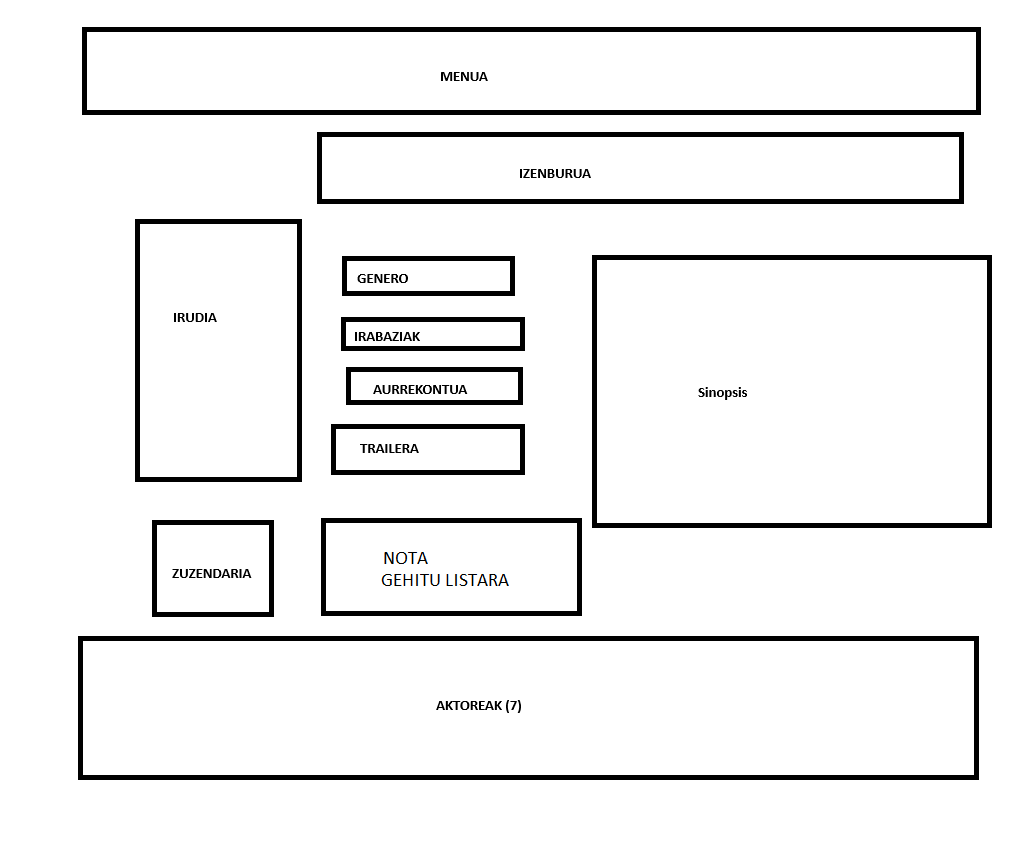
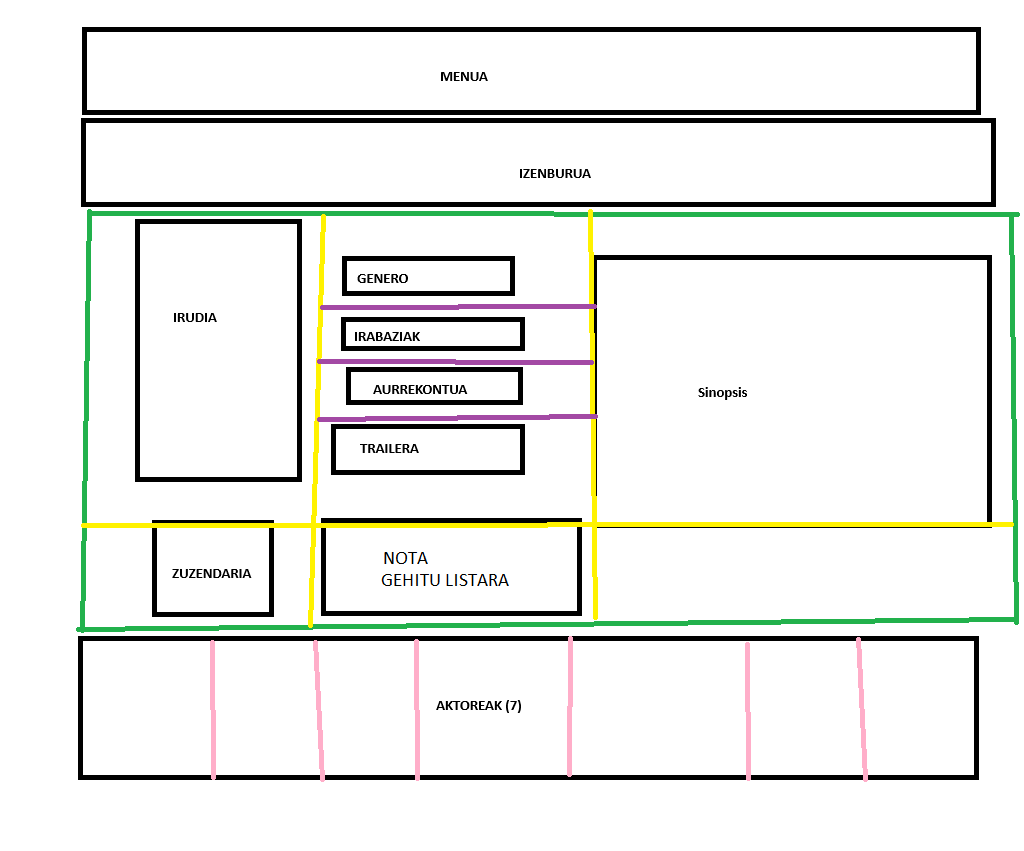
Pelikula atala egiten

diff --git a/Erronka_Zinema/Aplikazioa/_zinema_/src/GUI/Informazioa/PelikulaInformazioa.java b/Erronka_Zinema/Aplikazioa/_zinema_/src/GUI/Informazioa/PelikulaInformazioa.java
@@ -1,0 +1,127 @@
+package GUI.Informazioa;
+
+import DatuBase.Konexioa;
+import Objetuak.DB.Pelikulak;
+
+import javax.swing.*;
+import java.awt.*;
+import java.awt.event.ActionEvent;
+import java.awt.event.ActionListener;
+import java.io.IOException;
+import java.net.URI;
+import java.net.URISyntaxException;
+import java.sql.ResultSet;
+import java.sql.SQLException;
+
+public class PelikulaInformazioa {
+
+
+
+    public static JPanel peliInfo(Pelikulak pelikula) throws SQLException {
+
+        JPanel pelikularenInformazia = new JPanel();
+
+        String izenburua = pelikula.getTituloa();
+        JLabel izenBuru = new JLabel(izenburua);
+
+        pelikularenInformazia.add(izenBuru);
+
+
+        JPanel datuak = pelikulaDatu(pelikula);
+
+        pelikularenInformazia.add(datuak);
+
+
+
+        return pelikularenInformazia;
+
+    }
+
+    static JPanel pelikulaDatu(Pelikulak pelikulak) throws SQLException {
+
+        JPanel datuak = new JPanel();
+
+        datuak.setLayout(new GridLayout(3, 2)); //↓→
+
+        datuak.add(irudiak(pelikulak.getIrudiaLokalki(), 130, 200));
+
+        JPanel informazioa = informazioa(pelikulak);
+
+        datuak.add(informazioa);
+
+
+        String sinopsis = pelikulak.getSinopsis();
+        JLabel sino = new JLabel(sinopsis);
+        datuak.add(sino);
+
+
+        return  datuak;
+
+
+    }
+
+    static JPanel informazioa (Pelikulak pelikulak) throws SQLException {
+        JPanel informazioa = new JPanel();
+
+        informazioa.setLayout(new GridLayout(5,1));
+
+
+        String generoa = pelikulak.getGeneroa();
+        generoa = generoa.replace(";", " - ");
+        JLabel izenBuru = new JLabel(generoa);
+        informazioa.add(izenBuru);
+
+
+        Konexioa conn = new Konexioa();
+        ResultSet emaitza = conn.estrenaldia(pelikulak.getIdEstrenaldia());
+        emaitza.next();
+
+        String data = String.valueOf(emaitza.getString("ESTREINALDI_DATA"));
+        //System.out.println(data);
+        conn.konexioaItxi();
+
+
+
+        JLabel dat = new JLabel(data);
+        informazioa.add(dat);
+
+
+        JLabel irabaziak = new JLabel(String.valueOf(pelikulak.getIrabaziak()));
+        informazioa.add(irabaziak);
+
+        JLabel aurrekontua = new JLabel(String.valueOf(pelikulak.getAurrekontua()));
+        informazioa.add(aurrekontua);
+
+
+        JButton trailera = new JButton("Trailera");
+        trailera.addActionListener(new ActionListener() {
+            @Override
+            public void actionPerformed(ActionEvent e) {
+                try {
+                    URI uri = new URI(pelikulak.getTrailera());
+                    Desktop.getDesktop().browse(uri);
+                } catch (URISyntaxException | IOException ex) {
+                    ex.printStackTrace();
+                }
+            }
+        });
+
+        informazioa.add(trailera);
+
+        return informazioa;
+
+    }
+
+
+    static JLabel irudiak(String url, int x, int y){
+        ImageIcon originalIcon = new ImageIcon(url);
+
+        Image img = originalIcon.getImage();
+        Image img1 = img.getScaledInstance(x, y, Image.SCALE_SMOOTH);
+        ImageIcon thedark = new ImageIcon(img1);
+
+        JLabel label = new JLabel();
+        label.setIcon(thedark);
+        return label;
+    }
+}

diff --git a/Erronka_Zinema/Aplikazioa/_zinema_/src/GUI/Index.java b/Erronka_Zinema/Aplikazioa/_zinema_/src/GUI/Index.java
@@ -1,5 +1,6 @@
 package GUI;
 import DatuBase.Konexioa;
+import GUI.Informazioa.PelikulaInformazioa;
 import GUI.LogIn.Konfigurazioa;
 import GUI.LogIn.KontuaSortu;
 import GUI.LogIn.SaioaHasi;
@@ -545,13 +546,30 @@ public class Index {
         return akt;
     }*/
 
-    void pelikulaAukeratuta(MouseEvent e){
+    void pelikulaAukeratuta(MouseEvent e) {
+        try {
+            menuGarbia();
 
-        menuGarbia();
+            Object source = e.getSource();
 
-        Pelikulak pel = pelikulaList.get(e.getSource());
-        System.out.println(pel);
+            if (source instanceof JComponent && pelikulaList.containsKey(source)) {
+                Pelikulak pel = pelikulaList.get(source);
+
+                pelikulaInformazioa.removeAll();
+
+                pelikulaInformazioa.add(PelikulaInformazioa.peliInfo(pel));
+
+                pelikulaInformazioa.revalidate();
+                pelikulaInformazioa.repaint();
+                pelikulaInformazioa.setVisible(true);
+            } else {
+                System.err.println("Aukeratutako pelikua ez dago listan");
+            }
+        } catch (SQLException i) {
+            System.err.println(i.getMessage());
+        }
     }
+
 
     void aktoreaAukeratu(MouseEvent e){
 
@@ -920,7 +938,9 @@ public class Index {
                 pelikulaList.put(irudia, list.getPelikula());
                 irudia.addMouseListener(new MouseAdapter() {
                     public void mouseClicked(MouseEvent e) {
-                        pelikulaAukeratuta(e);;
+                        pelikulaAukeratuta(e);
+
+
                     }
                 });
                 myListLabel.add(irudia);

diff --git a/Erronka_Zinema/Aplikazioa/_zinema_/src/Objetuak/DB/Pelikulak.java b/Erronka_Zinema/Aplikazioa/_zinema_/src/Objetuak/DB/Pelikulak.java
@@ -98,4 +98,36 @@ public class Pelikulak {
 
         setirudiaLokalki(irudiakDeskargatu.getFitxategiarenIzena());
     }
+
+    public int getIDPelikula() {
+        return IDPelikula;
+    }
+
+    public String getGeneroa() {
+        return generoa;
+    }
+
+    public long getIrabaziak() {
+        return irabaziak;
+    }
+
+    public long getAurrekontua() {
+        return aurrekontua;
+    }
+
+    public String getTrailera() {
+        return trailera;
+    }
+
+    public int getIdEstrenaldia() {
+        return idEstrenaldia;
+    }
+
+    public int getIdZuzendaria() {
+        return idZuzendaria;
+    }
+
+    public String getSinopsis() {
+        return sinopsis;
+    }
 }

diff --git a/Erronka_Zinema/Aplikazioa/_zinema_/src/DatuBase/Konexioa.java b/Erronka_Zinema/Aplikazioa/_zinema_/src/DatuBase/Konexioa.java
@@ -1346,6 +1346,14 @@ public class Konexioa {
         }
     }
 
+    public ResultSet estrenaldia(int id) throws SQLException {
+        String sql = "select * from ESTREINALDIAK where ID_ESTREINALDIA = ?";
+        PreparedStatement kontsulta = conn.prepareStatement(sql);
+        kontsulta.setInt(1, id);
+
+
+        return kontsulta.executeQuery();
+    }
 
 
     //************************KONEXIOA*********************************
